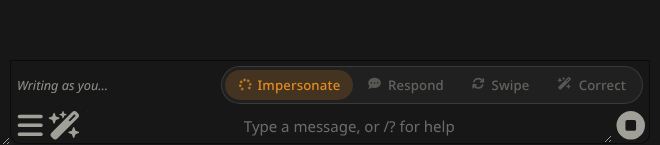
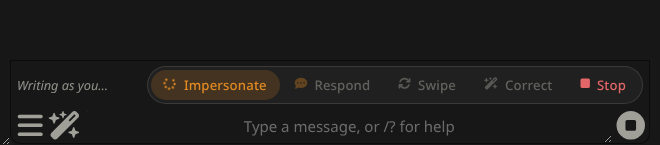
Add an abort button
A Stop button appears in the bar while something runs; clicking the
running button or pressing Esc also stops it, and SillyTavern's own stop
counts too. Stopping cancels the request via stopGeneration (which also
aborts quiet and raw requests), skips auto-retries, restores the
impersonation outline, never applies a correction, and shows 'Stopped.'
instead of an error.

Claude-Session: https://claude.ai/code/session_01W9Q53hTj4MAFdCsrz4bzBP

Changed region(s): [[0.2121, 0.4414, 0.9697, 0.7172]]

diff --git a/index.js b/index.js
@@ -55,6 +55,8 @@ const DEFAULTS = Object.freeze({
 });
 
 let busy = false;
+// Set when the user stops a running generation (our Stop button, Esc, or SillyTavern's own stop).
+let aborted = false;
 let lastImpersonation = '';
 let outlineBeforeImpersonation = '';
 
@@ -99,16 +101,36 @@ async function exclusive(buttonId, fn) {
         return;
     }
     busy = true;
+    aborted = false;
     setBusy(buttonId);
     try {
         await fn();
     } catch (error) {
-        console.error(LOG, error);
-        notify('error', error?.message ?? String(error));
+        // A stopped request rejects with an abort error; that's expected, not a failure.
+        if (!aborted) {
+            console.error(LOG, error);
+            notify('error', error?.message ?? String(error));
+        }
     } finally {
         busy = false;
         setBusy(null);
         syncImpersonateButton();
+        if (aborted) notify('info', 'Stopped.');
+        aborted = false;
+    }
+}
+
+const isAborted = () => aborted;
+
+/** Stops whatever the extension is generating. SillyTavern's stop also cancels quiet and raw requests. */
+function abortGeneration() {
+    if (!busy || aborted) return;
+    aborted = true;
+    setStatus('Stopping…');
+    try {
+        ctx().stopGeneration();
+    } catch (error) {
+        console.warn(LOG, 'stopGeneration failed', error);
     }
 }
 
@@ -269,6 +291,10 @@ async function guidedImpersonate() {
         try {
             const strict = s.strictImpersonate && canUseStrict();
             let result = await attempt({ strict });
+            if (aborted) {
+                setInput(outlineBeforeImpersonation);
+                return;
+            }
             let slip = impersonationSlip(result);
 
             if (slip && s.povRetry) {
@@ -276,6 +302,10 @@ async function guidedImpersonate() {
                 setStatus(slip === 'char' ? `Keeping it as ${c.name1}…` : 'Fixing point of view…');
                 // A reply written as {{char}} is retried in strict mode, which is much harder to derail.
                 const retry = await attempt({ strict: canUseStrict() && (strict || slip === 'char'), reason: slip });
+                if (aborted) {
+                    setInput(outlineBeforeImpersonation);
+                    return;
+                }
                 if (slipScore(retry) < slipScore(result)) result = retry;
                 slip = impersonationSlip(result);
             }
@@ -368,6 +398,7 @@ async function swipeToNew() {
         if ((message?.swipe_id ?? 0) >= count - 1) break;
         await ctx().swipe.right();
     }
+    if (aborted) return;
     await ctx().swipe.right();
 }
 
@@ -415,7 +446,7 @@ const BUTTONS = [
         id: 'ggsi_correct', setting: 'showCorrect', icon: 'fa-wand-magic-sparkles', label: 'Correct',
         hint: 'Rewrite a message (or just a highlighted part of it) following your instructions, in the speaker\'s voice.',
         busyText: 'Correcting the message…',
-        action: () => openCorrections({ settings, save, exclusive, substitute }),
+        action: () => openCorrections({ settings, save, exclusive, substitute, isAborted }),
     },
 ];
 
@@ -433,15 +464,26 @@ function init() {
         templateDefaults: TEMPLATE_DEFAULTS,
         onChange: key => {
             if (key.startsWith('show') || key === 'compactButtons') {
-                renderBar(BUTTONS, s);
+                renderBar(BUTTONS, s, { onStop: abortGeneration });
                 syncImpersonateButton();
             }
         },
     });
-    renderBar(BUTTONS, s);
+    renderBar(BUTTONS, s, { onStop: abortGeneration });
     textarea()?.addEventListener('input', syncImpersonateButton);
 
     const { eventSource, event_types } = ctx();
+    // SillyTavern's own stop button (or its Esc shortcut) also counts as aborting our run.
+    eventSource.on(event_types.GENERATION_STOPPED, () => {
+        if (busy) aborted = true;
+    });
+    document.addEventListener('keydown', event => {
+        if (event.key !== 'Escape' || !busy || event.defaultPrevented) return;
+        // Leave Esc alone while a popup (e.g. Corrections) is open; it closes the popup there.
+        if (document.querySelector('dialog[open]')) return;
+        abortGeneration();
+    });
+
     eventSource.on(event_types.CHAT_CHANGED, () => {
         lastImpersonation = '';
         outlineBeforeImpersonation = '';

diff --git a/src/ui.js b/src/ui.js
@@ -16,9 +16,17 @@ const BAR_ID = 'ggsi_bar';
 
 /** @type {BarButton[]} */
 let buttons = [];
+/** @type {() => void} */
+let stopHandler = () => {};
 
-export function renderBar(barButtons, settings) {
+/**
+ * @param {BarButton[]} barButtons
+ * @param {object} settings
+ * @param {{ onStop?: () => void }} [options]
+ */
+export function renderBar(barButtons, settings, { onStop } = {}) {
     buttons = barButtons;
+    if (onStop) stopHandler = onStop;
     const anchor = document.getElementById('nonQRFormItems');
     if (!anchor) {
         console.error('[Guided Gens SI] Could not find #nonQRFormItems; buttons not added.');
@@ -54,10 +62,21 @@ export function renderBar(barButtons, settings) {
         el.title = button.hint;
         el.setAttribute('aria-label', button.label);
         el.innerHTML = `<i class="ggsi-icon fa-solid ${button.icon}"></i><span class="ggsi-label">${button.label}</span>`;
-        el.addEventListener('click', () => button.action());
+        // While it runs, clicking the same button stops it.
+        el.addEventListener('click', () => (el.classList.contains('ggsi-running') ? stopHandler() : button.action()));
         group.appendChild(el);
     }
     bar.hidden = group.childElementCount === 0;
+
+    const stop = document.createElement('button');
+    stop.type = 'button';
+    stop.className = 'ggsi-btn ggsi-stop';
+    stop.title = 'Stop generating (Esc)';
+    stop.setAttribute('aria-label', 'Stop');
+    stop.hidden = true;
+    stop.innerHTML = '<i class="ggsi-icon fa-solid fa-stop"></i><span class="ggsi-label">Stop</span>';
+    stop.addEventListener('click', () => stopHandler());
+    group.appendChild(stop);
 }
 
 export function setStatus(text = '') {
@@ -72,13 +91,16 @@ export function setBusy(buttonId) {
     const bar = document.getElementById(BAR_ID);
     if (!bar) return;
     bar.classList.toggle('ggsi-busy', !!buttonId);
-    for (const el of bar.querySelectorAll('.ggsi-btn')) {
+    const button = buttons.find(b => b.id === buttonId);
+    for (const el of bar.querySelectorAll('.ggsi-btn:not(.ggsi-stop)')) {
         const running = el.id === buttonId;
         el.classList.toggle('ggsi-running', running);
         el.disabled = !!buttonId && !running;
         el.setAttribute('aria-busy', String(running));
+        el.title = running ? 'Click to stop' : (buttons.find(b => b.id === el.id)?.hint ?? el.title);
     }
-    const button = buttons.find(b => b.id === buttonId);
+    const stop = bar.querySelector('.ggsi-stop');
+    if (stop) stop.hidden = !buttonId;
     setStatus(button?.busyText ?? '');
 }
 

diff --git a/style.css b/style.css
@@ -101,8 +101,10 @@
     outline-offset: 1px;
 }
 
-#ggsi_bar .ggsi-btn:disabled {
+#ggsi_bar .ggsi-btn:disabled,
+#ggsi_bar .ggsi-btn:disabled:hover {
     opacity: 0.35;
+    background: transparent;
     cursor: not-allowed;
 }
 
@@ -124,6 +126,46 @@
 
 #ggsi_bar .ggsi-btn.ggsi-running .ggsi-icon {
     animation: ggsi-spin 0.9s linear infinite;
+}
+
+/* Hovering the running button previews that a click stops it. */
+#ggsi_bar .ggsi-btn.ggsi-running:hover .ggsi-icon {
+    animation: none;
+}
+
+#ggsi_bar .ggsi-btn.ggsi-running:hover .ggsi-icon::before {
+    content: "\f04d"; /* fa-stop */
+}
+
+/* Stop button, only shown while something runs. */
+#ggsi_bar .ggsi-btn[hidden] {
+    display: none;
+}
+
+#ggsi_bar .ggsi-stop {
+    --ggsi-danger: color-mix(in srgb, #e5484d 80%, var(--ggsi-fg));
+    color: var(--ggsi-danger);
+    animation: ggsi-pop 0.18s ease-out;
+}
+
+#ggsi_bar .ggsi-stop .ggsi-icon {
+    color: var(--ggsi-danger);
+    opacity: 1;
+}
+
+#ggsi_bar .ggsi-stop:hover {
+    background: color-mix(in srgb, #e5484d 18%, transparent);
+}
+
+#ggsi_bar .ggsi-stop:hover .ggsi-icon {
+    color: var(--ggsi-danger);
+}
+
+@keyframes ggsi-pop {
+    from {
+        opacity: 0;
+        transform: scale(0.85);
+    }
 }
 
 /* Impersonate result sitting in the box: the button becomes "Outline". */

diff --git a/src/corrections.js b/src/corrections.js
@@ -355,8 +355,9 @@ async function editInPlace(index, text) {
  * @param {() => void} deps.save
  * @param {(buttonId: string, fn: () => Promise<void>) => Promise<void>} deps.exclusive
  * @param {(text: string) => string} deps.substitute
+ * @param {() => boolean} deps.isAborted
  */
-export async function openCorrections({ settings, save, exclusive, substitute }) {
+export async function openCorrections({ settings, save, exclusive, substitute, isAborted }) {
     const s = settings();
     const choice = await chooseCorrection(s);
     save();
@@ -368,6 +369,7 @@ export async function openCorrections({ settings, save, exclusive, substitute })
         const { prompt, speaker, selected } = buildPrompt(choice, s, substitute);
 
         const raw = await generate(prompt, choice.includeHistory);
+        if (isAborted()) return;
         const rewrite = cleanRewrite(raw, selected || choice.baseText, speaker);
         if (!rewrite) {
             toastr.warning('The model returned nothing, so the message was left unchanged.', 'Guided Gens SI');

diff --git a/README.md b/README.md
@@ -13,7 +13,9 @@ It has just four buttons, and they're built to stay in character.
 | **Swipe** | A new swipe of the character's last message, following your direction, **in their own voice**. Leave the box empty for a plain swipe. |
 | **Correct** | Rewrite any message, or just a highlighted part of it, from your instructions, keeping the speaker's voice. See [Corrections](#corrections). |
 
-While one runs, it shows a spinner and a short status, and the other buttons are locked so you can't start two generations at once. On narrow screens (or with **Compact** on) the bar shows icons only.
+While one runs, it shows a spinner and a short status, and the other buttons are locked so you can't start two generations at once.
+
+**Stopping:** a red **Stop** button appears while something runs. You can also click the spinning button again, press **Esc**, or use SillyTavern's own stop button. The request is cancelled and nothing is applied: no auto-retry, no correction, and Impersonate puts your outline back in the box. On narrow screens (or with **Compact** on) the bar shows icons only.
 
 ![Busy state](docs/bar-busy.png)
 ![After impersonating, the button offers your outline back](docs/bar-outline.png)
